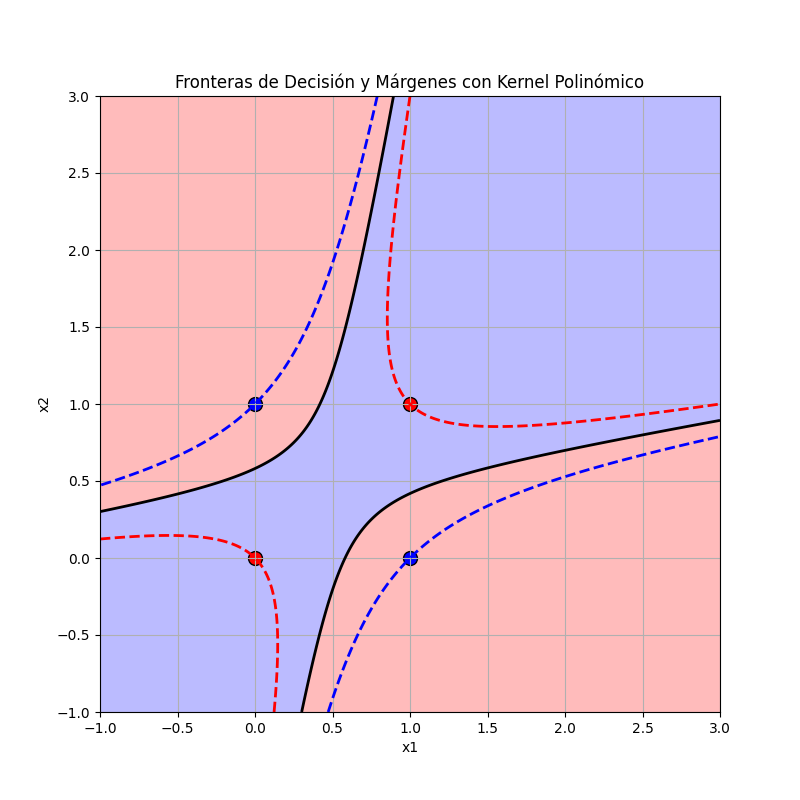
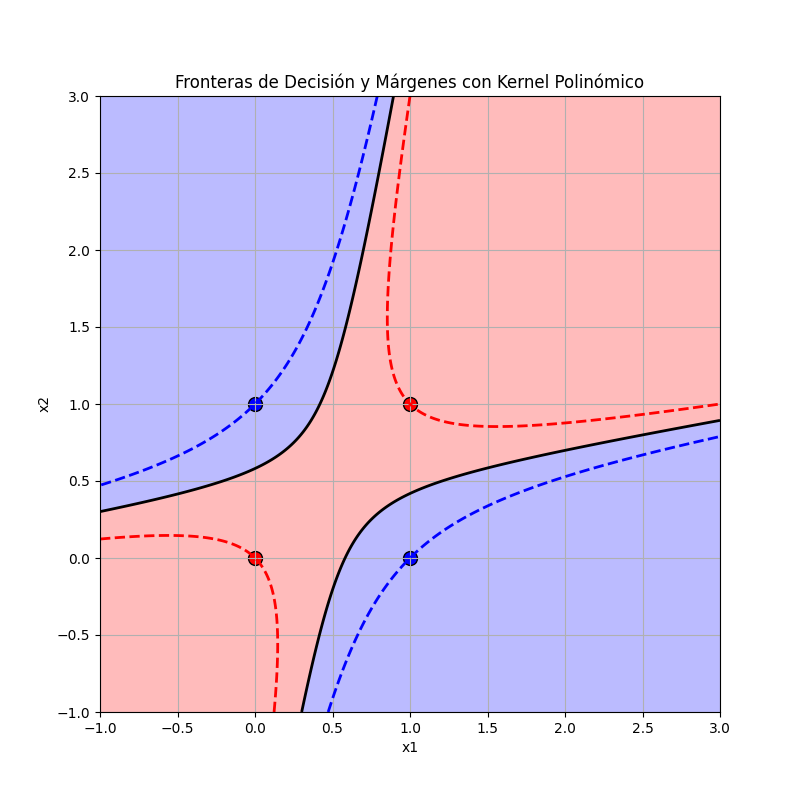
svm ejercicio

diff --git a/Teoría/TEMA6/assets/optim.py b/Teoría/TEMA6/assets/optim.py
@@ -8,6 +8,7 @@ import numpy as np
 
 x = np.array([[1, 1], [0, 0], [0, 1], [1, 0]])
 labels = np.array([1, 1, -1, -1])
+C=3 # Parámetro de regularización
 
 # Definición del kernel polinómico
 
@@ -17,7 +18,6 @@ def polynomial_kernel(x, y):
 
 
 # Construcción de la matriz kernel
-
 kernel_matrix = np.zeros((4, 4))
 
 for i in range(4):
@@ -75,6 +75,7 @@ support_vector_alphas = optimal_alphas[support_vectors_indices]
 # Calcular el sesgo (bias): b = y_i - sum(alpha_j * y_j * K(x_j, x_i))
 idx=1 # por ejemplo con x_1 
 bias = labels[idx] - sum(optimal_alphas[j] * labels[j] * polynomial_kernel(x[j], x[idx]) for j in range(n_samples))
+print(bias)
 
 # Recalcular f(x) incluyendo el sesgo
 def decision_function(sample):
@@ -82,6 +83,7 @@ def decision_function(sample):
     for i in range(n_samples):
         decision_value += optimal_alphas[i] * labels[i] * polynomial_kernel(x[i], sample)
     return decision_value + bias
+
 
 
 # Generar una cuadrícula para visualizar las fronteras de decisión
@@ -102,7 +104,7 @@ decision_values_corrected = np.array(decision_values_corrected).reshape(xx.shape
 
 # Dibujar nuevamente las fronteras de decisión
 plt.figure(figsize=(8, 8))
-plt.contourf(xx, yy, decision_values_corrected, levels=0, cmap=ListedColormap(['#FFAAAA', '#AAAAFF']), alpha=0.8)
+plt.contourf(xx, yy, decision_values_corrected, levels=0, cmap=ListedColormap(['#AAAAFF','#FFAAAA']), alpha=0.8)
 plt.contour(xx, yy, decision_values_corrected, levels=[-1, 0, 1], colors=['blue', 'black', 'red'], linewidths=2, linestyles=['--', '-', '--'])
 
 # Dibujar los puntos de entrenamiento
